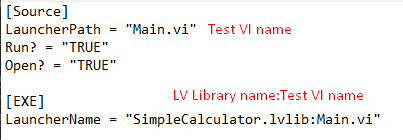
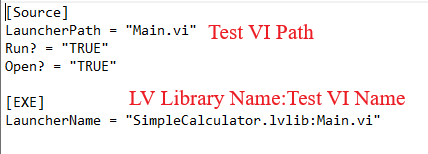
feat: Added instruction.md file to list steps for Drona Tests in source code and EXE (with Images)

Changed region(s): [[0.0, 0.5714, 0.9529, 0.9143], [0.0, 0.0, 0.7444, 0.5143]]

diff --git a/INSTRUCTION.md b/INSTRUCTION.md
@@ -1,0 +1,74 @@
+# Steps for executing SLL Drona Tests in Source Code
+
+* Create a Drona.ini file, parallel to the project directory.
+  
+  ![Drona File Directory](Images/Drona%20File%20Directory.png)
+
+
+* In the Drona.ini file, under the source section, enter the source VI path from the project directory on LauncherPath
+  
+* Set 'Run?' and 'Open?' as 'TRUE' to run and open source VI during the test.
+
+  ![Drona.ini file](Images/Drona%20ini%20file.png)
+
+
+* Create a new test library and add all test VIs in it, such that all the test names should start with the prefix “Test”.
+
+  ![Example Project](Images/Example%20Project.png)
+
+
+* Each test can be performed individually, by running the corresponding test VI.
+
+* To run all the tests in the project, select this option: 'Tools -> Caraya -> Run Tests in Active Project...'
+
+  ![Run Tests in Active Project](Images/Run%20Tests%20in%20Active%20Project.png)
+
+
+<br>
+<br>
+<br>
+<br>
+<br>
+<br>
+
+# Steps for executing SLL Drona Tests in EXE
+
+* In the Drona.ini file, under the EXE section, mention the source VI name on LauncherName
+
+   ![Drona.ini file](Images/Drona%20ini%20file.png)
+
+  
+* Create a new test library and add all test VIs in it, such that all the test names should start with the prefix “Test”.
+
+  ![Example Project](Images/Example%20Project.png)
+
+
+* Create a VI named “Run.vi” in the test library, and script the VI such that it runs all the tests present in that library. Drona's 'Run Core' API will perform this function (Run all tests present in the packed library).
+
+   ![Run VI](Images/Run%20VI.png)
+
+
+* Create EXE for the source code that needs to be tested. Add the Drona.ini file in 'Always Included' and build the EXE.
+
+  ![EXE Configuration](Images/EXE%20Configuration.png)
+
+
+* Create a Packed Library (PPL) for the test library, that contains all the Test VIs and build the PPL.
+
+  ![PPL Configuration](Images/PPL%20Configuration.png)
+
+
+* Create a new VI (not needs to be in test library) and connect the created EXE and PPL paths to the "EXE Run Tests" API.
+
+  ![EXE Run Tests](Images/EXE%20Run%20Tests.png)
+
+
+* Close the LabVIEW Project and run the VI created in the previous step on LabVIEW Instance, to execute Drona tests in EXE.
+
+
+<br>
+<br>
+<br>
+
+
+**Note:** For further reference, you can find the Drona examples in this directory: **<LabVIEW_Installation_Folder>\examples\Soliton Technologies\SLL Drona\Examples**
